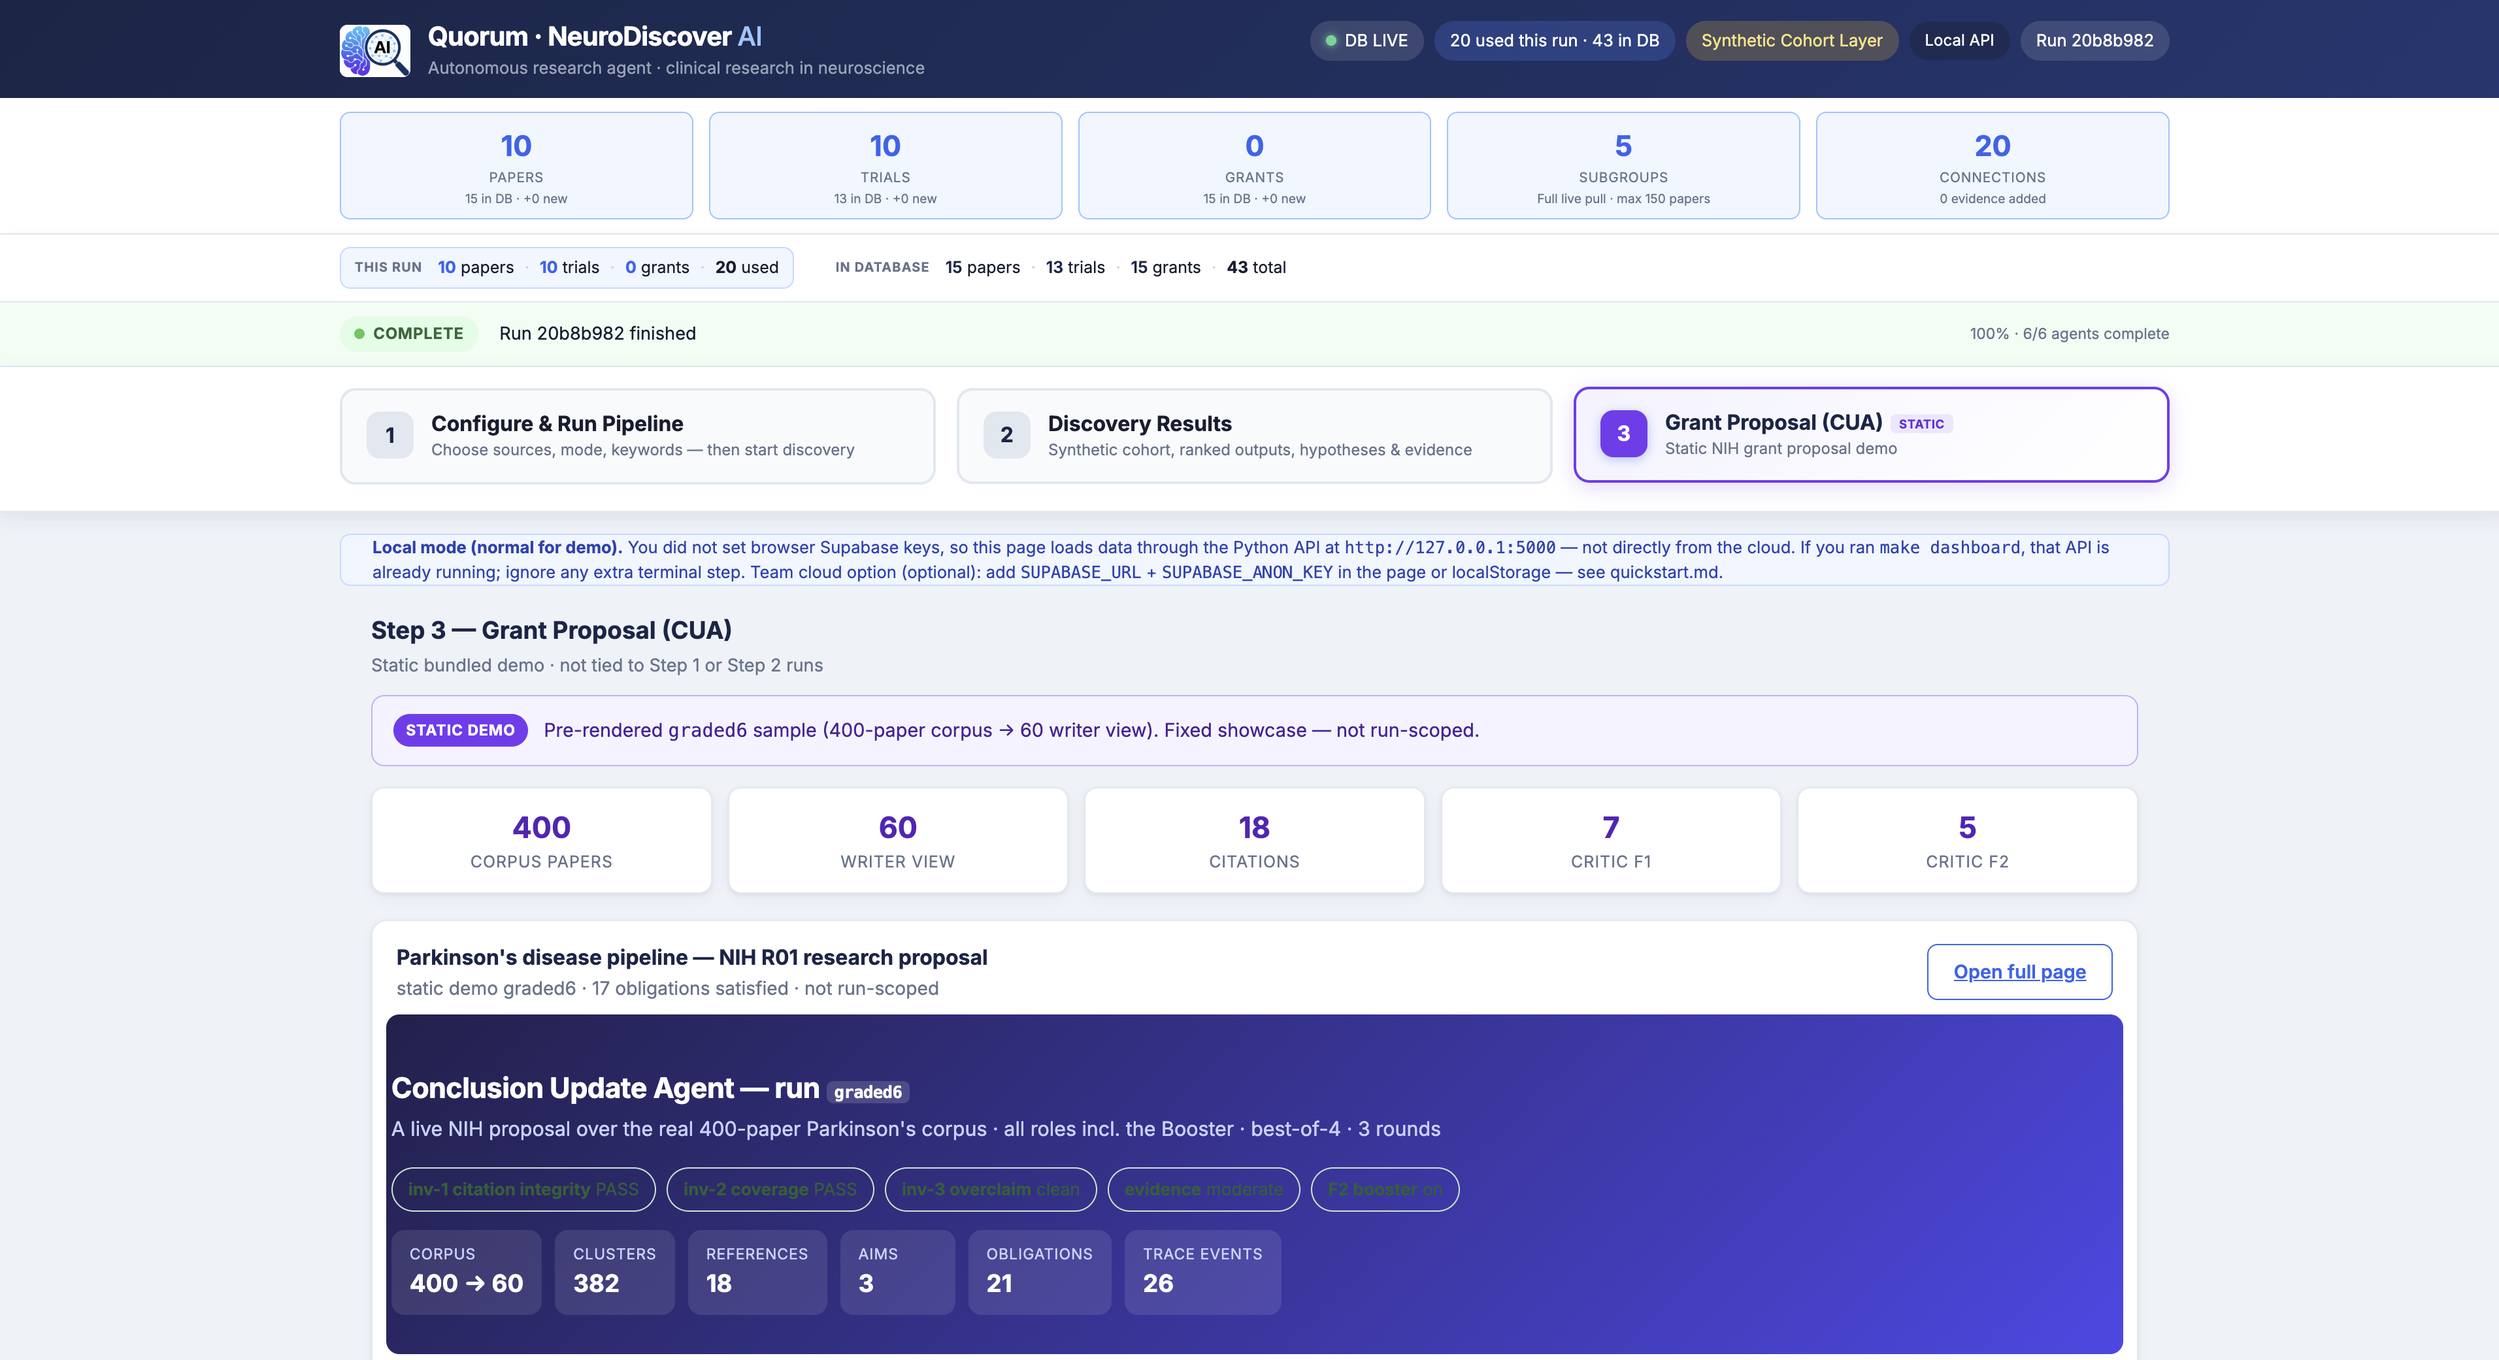
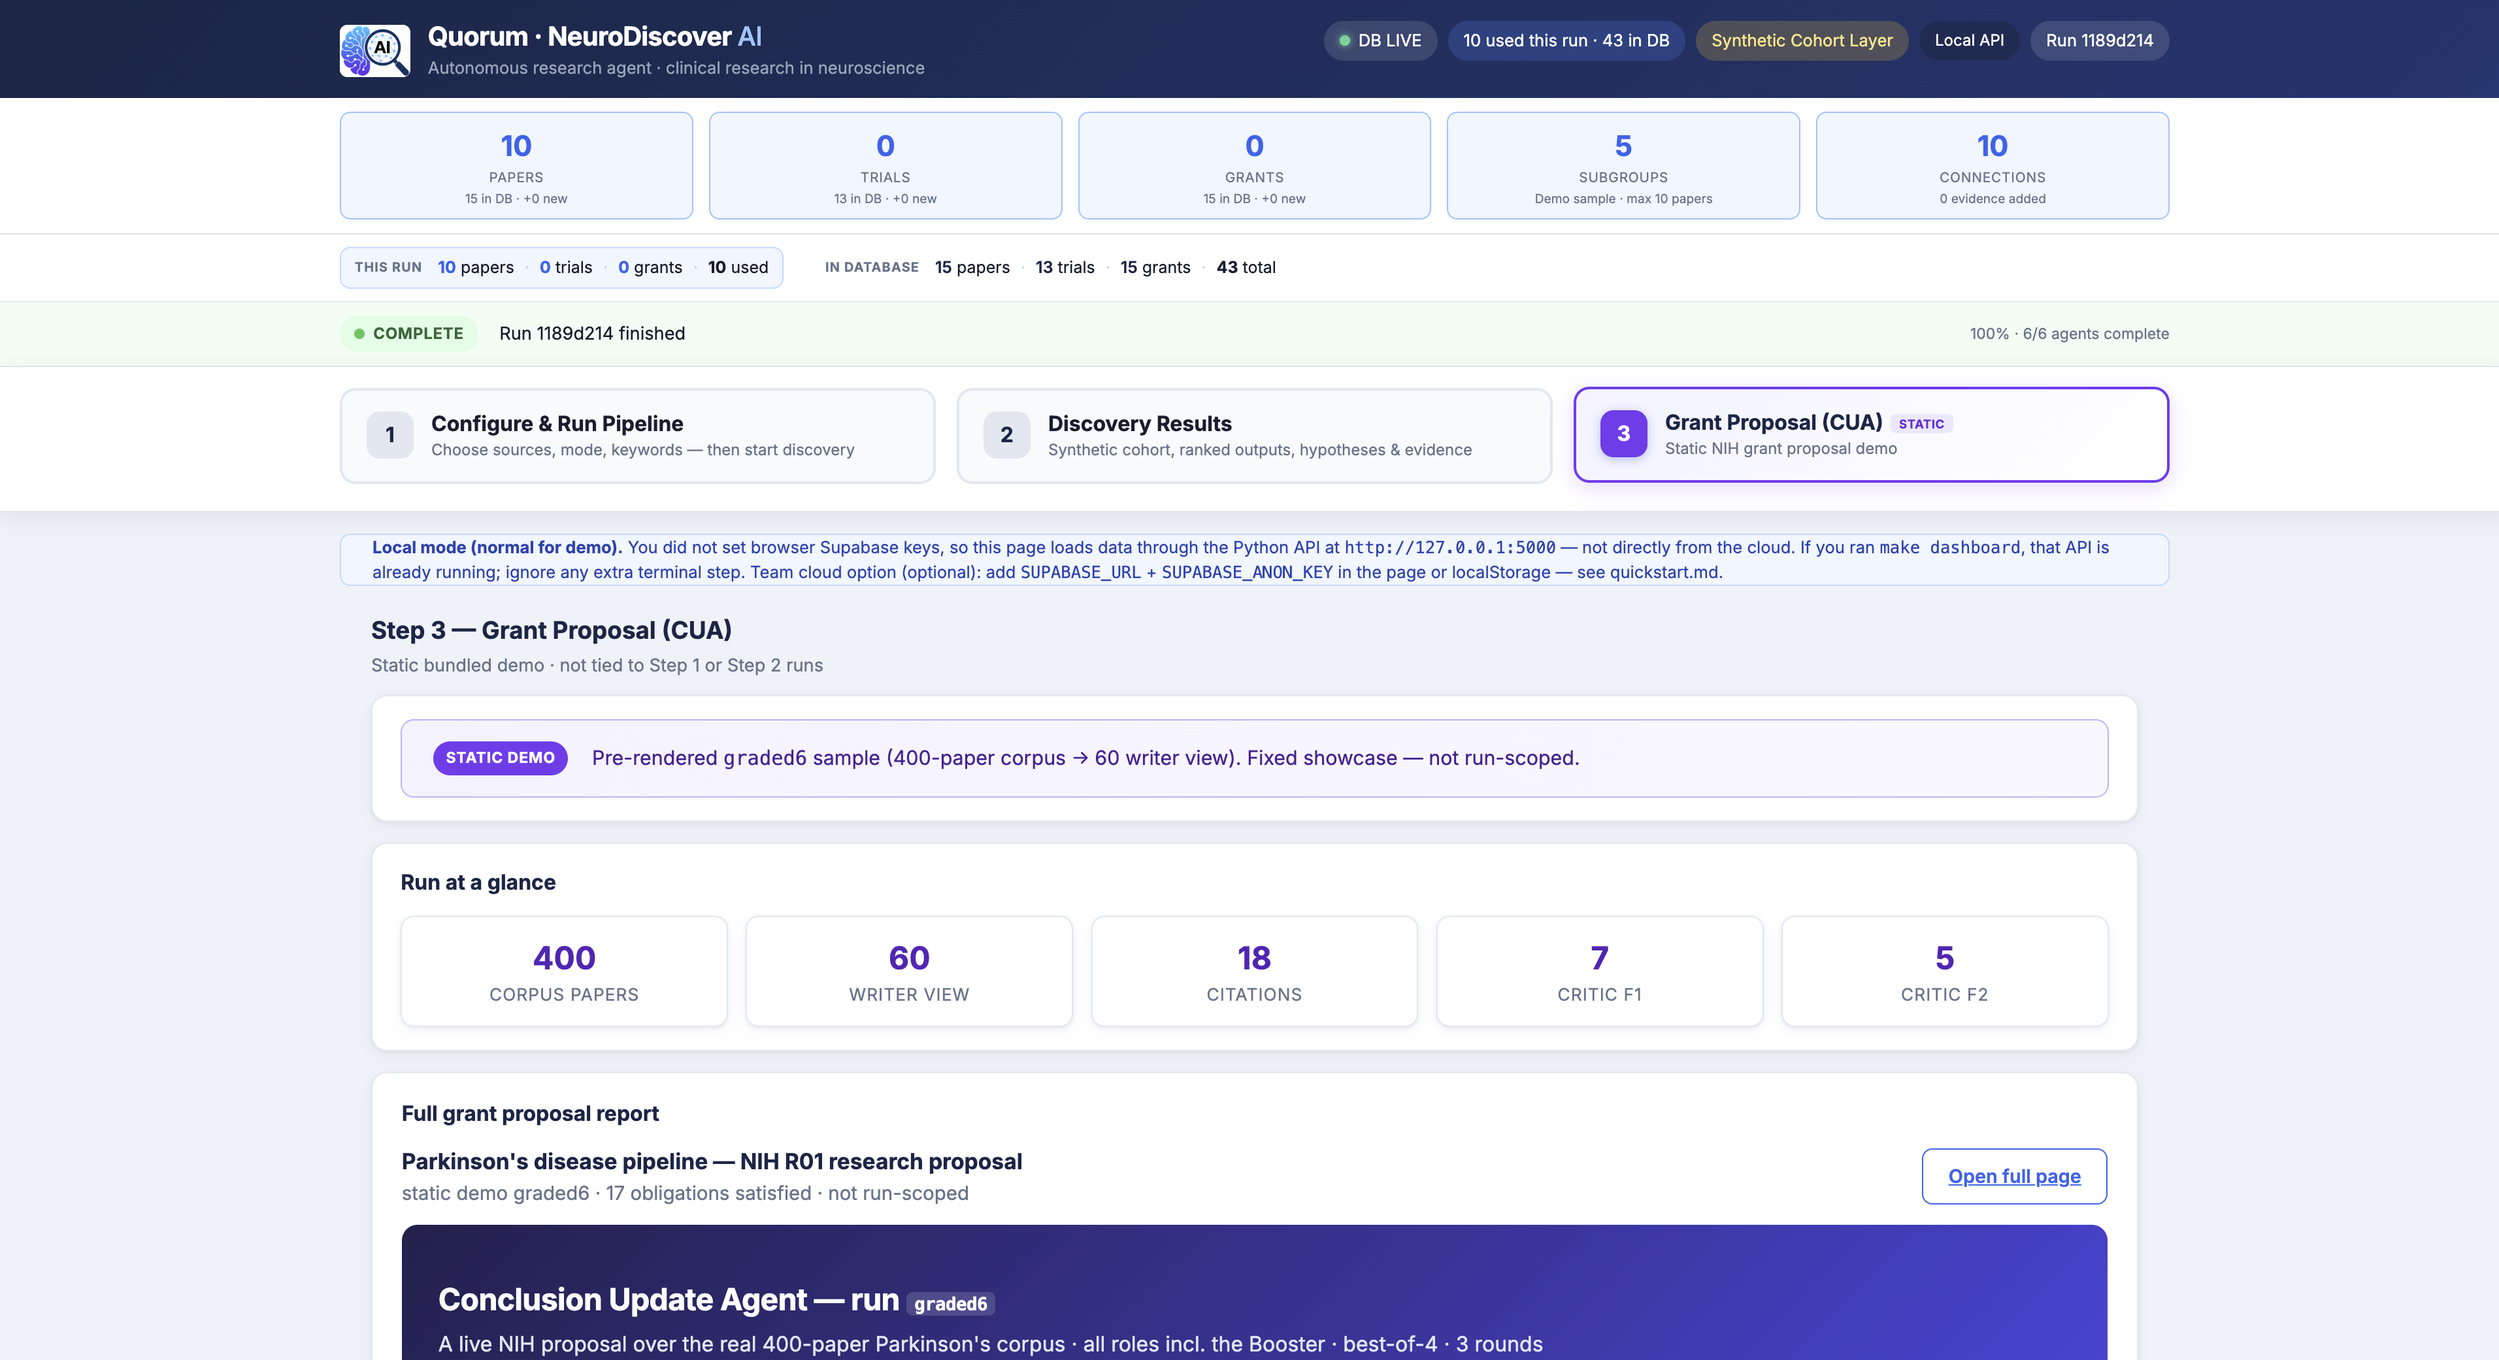
Improve Step 3 CUA readability with contrast, padding, and section cards.

diff --git a/neurodiscover/frontend/index.html b/neurodiscover/frontend/index.html
@@ -286,6 +286,20 @@
     .tab-btn-cua.active { border-color: #7c3aed; background: linear-gradient(135deg, #f5f3ff 0%, #fff 100%); box-shadow: 0 4px 16px rgba(124, 58, 237, 0.18); }
     .tab-btn-cua.active .tab-step { background: #7c3aed; color: #fff; }
     .cua-wide { max-width: 1400px; margin: 0 auto; padding: 0.75rem 1.5rem 2rem; }
+    .cua-shell-card {
+      background: var(--card);
+      border: 1px solid var(--border);
+      border-radius: 12px;
+      box-shadow: var(--shadow);
+      padding: 1.1rem 1.35rem;
+      margin-bottom: 1rem;
+    }
+    .cua-shell-card h2 {
+      margin: 0 0 0.85rem;
+      font-size: 1rem;
+      font-weight: 700;
+      color: var(--navy);
+    }
     .cua-banner {
       border-left: 4px solid #7c3aed;
       background: linear-gradient(90deg, #f5f3ff 0%, #fff 14%);
@@ -294,8 +308,8 @@
     .cua-kpi-row {
       display: grid;
       grid-template-columns: repeat(5, minmax(0, 1fr));
-      gap: 0.75rem;
-      margin-bottom: 1.25rem;
+      gap: 0.85rem;
+      margin-bottom: 0;
     }
     @media (max-width: 900px) { .cua-kpi-row { grid-template-columns: repeat(2, 1fr); } }
     .cua-kpi {
@@ -306,8 +320,8 @@
       border: 1px solid var(--border);
       box-shadow: var(--shadow);
     }
-    .cua-kpi .val { font-size: 1.4rem; font-weight: 700; color: #5b21b6; }
-    .cua-kpi .lbl { font-size: 0.78rem; text-transform: uppercase; letter-spacing: 0.04em; color: var(--muted); }
+    .cua-kpi .val { font-size: 1.5rem; font-weight: 700; color: #5b21b6; }
+    .cua-kpi .lbl { font-size: 0.82rem; text-transform: uppercase; letter-spacing: 0.04em; color: var(--muted); }
     .cua-report-toolbar {
       display: flex;
       align-items: center;
@@ -324,7 +338,7 @@
       border: 1px solid var(--border);
       border-radius: 12px;
       box-shadow: var(--shadow);
-      padding: 1rem 1.15rem 1.25rem;
+      padding: 1.2rem 1.4rem 1.5rem;
       overflow: visible;
     }
     .cua-report-inline {
@@ -366,17 +380,18 @@
     .cua-static-bar {
       display: flex;
       align-items: center;
-      gap: 0.75rem;
+      gap: 1rem;
       flex-wrap: wrap;
-      padding: 0.85rem 1rem;
-      margin-bottom: 1rem;
+      padding: 1rem 1.35rem 1rem 1.5rem;
+      margin-bottom: 0;
       border-radius: 10px;
       border: 1px solid #c4b5fd;
-      background: #f5f3ff;
-      font-size: 0.9rem;
-      line-height: 1.5;
+      background: linear-gradient(90deg, #f5f3ff 0%, #faf8ff 100%);
+      font-size: 0.95rem;
+      line-height: 1.55;
       color: #4c1d95;
     }
+    .cua-static-text { flex: 1; min-width: 12rem; padding-left: 0.15rem; }
     .cua-static-badge {
       flex-shrink: 0;
       display: inline-flex;
@@ -1387,24 +1402,30 @@
   <div id="viewCua" class="hidden">
     <p class="view-page-title">Step 3 — Grant Proposal (CUA) <span id="cuaSubtitle">Static bundled demo · not tied to Step 1 or Step 2 runs</span></p>
     <div class="cua-wide">
-      <div class="cua-static-bar" role="note">
-        <span class="cua-static-badge">Static demo</span>
-        <span>Pre-rendered <code>graded6</code> sample (400-paper corpus → 60 writer view). Fixed showcase — not run-scoped.</span>
+      <div class="cua-shell-card">
+        <div class="cua-static-bar" role="note">
+          <span class="cua-static-badge">Static demo</span>
+          <span class="cua-static-text">Pre-rendered <code>graded6</code> sample (400-paper corpus → 60 writer view). Fixed showcase — not run-scoped.</span>
+        </div>
       </div>
-      <div class="cua-kpi-row" id="cuaKpis">
-        <div class="cua-kpi"><div class="val" id="cuaKpiCorpus">—</div><div class="lbl">Corpus papers</div></div>
-        <div class="cua-kpi"><div class="val" id="cuaKpiView">—</div><div class="lbl">Writer view</div></div>
-        <div class="cua-kpi"><div class="val" id="cuaKpiCites">—</div><div class="lbl">Citations</div></div>
-        <div class="cua-kpi"><div class="val" id="cuaKpiF1">—</div><div class="lbl">Critic F1</div></div>
-        <div class="cua-kpi"><div class="val" id="cuaKpiF2">—</div><div class="lbl">Critic F2</div></div>
+      <div class="cua-shell-card" id="cuaKpis">
+        <h2>Run at a glance</h2>
+        <div class="cua-kpi-row">
+          <div class="cua-kpi"><div class="val" id="cuaKpiCorpus">—</div><div class="lbl">Corpus papers</div></div>
+          <div class="cua-kpi"><div class="val" id="cuaKpiView">—</div><div class="lbl">Writer view</div></div>
+          <div class="cua-kpi"><div class="val" id="cuaKpiCites">—</div><div class="lbl">Citations</div></div>
+          <div class="cua-kpi"><div class="val" id="cuaKpiF1">—</div><div class="lbl">Critic F1</div></div>
+          <div class="cua-kpi"><div class="val" id="cuaKpiF2">—</div><div class="lbl">Critic F2</div></div>
+        </div>
       </div>
       <div id="cuaUnavailable" class="cua-unavail hidden">
         CUA demo artifacts not found. Ensure <code>cua/outputs/graded6.*</code> exists in the repo.
       </div>
       <div id="cuaMain">
         <div class="cua-report-card">
+          <h2 style="margin:0 0 0.75rem;font-size:1rem;color:var(--navy);">Full grant proposal report</h2>
           <div class="cua-report-toolbar">
-            <span><strong id="cuaReportTitle">Grant proposal report</strong><br><span id="cuaReportMeta" style="font-size:0.88rem;color:var(--muted);font-weight:400;">graded6 static demo</span></span>
+            <span><strong id="cuaReportTitle" style="font-size:1.05rem;">Grant proposal report</strong><br><span id="cuaReportMeta" style="font-size:0.92rem;color:var(--muted);font-weight:400;">graded6 static demo</span></span>
             <a class="btn btn-secondary" id="cuaReportOpen" href="#" target="_blank" rel="noopener">Open full page</a>
           </div>
           <div id="cuaReportHost" class="cua-report-inline" aria-live="polite">Loading grant proposal…</div>
@@ -3406,34 +3427,71 @@ python -m cua.nih.run_db \
 
     const CUA_INLINE_OVERRIDES = `
       :host { display: block; width: 100%; color: #1a1f2e; }
-      header { margin: -0.25rem -0.5rem 1.25rem; border-radius: 10px; overflow: hidden; }
-      .wrap { max-width: none; padding: 0 0.25rem 2rem; }
-      body { font-size: 16px; line-height: 1.6; }
-      h1 { font-size: 1.35rem !important; }
-      .sub { font-size: 0.95rem !important; line-height: 1.5 !important; }
-      .badge { font-size: 0.82rem !important; padding: 6px 12px !important; }
-      .chip { min-width: 5.5rem; padding: 10px 14px !important; }
-      .chip .k { font-size: 0.72rem !important; }
-      .chip .v { font-size: 1.15rem !important; }
-      h2 { font-size: 1.15rem; }
-      .lead { font-size: 0.95rem !important; line-height: 1.55; }
-      .dim { font-size: 0.82rem !important; }
-      .d-panel { overflow: visible !important; height: auto !important; min-height: 4.5rem; padding: 8px 12px !important; }
-      .dp-h { font-size: 0.72rem !important; }
-      .dp-c { font-size: 0.86rem !important; line-height: 1.5 !important; }
-      .dm { font-size: 0.78rem !important; }
-      .dnl b { font-size: 0.9rem !important; }
-      .obl li { font-size: 0.88rem !important; line-height: 1.5 !important; }
-      .ev-role { font-size: 0.88rem !important; }
-      .ev-dec { font-size: 0.8rem !important; }
-      .pmore { font-size: 0.78rem !important; }
-      code { font-size: 0.8rem !important; }
-      table { font-size: 0.88rem !important; }
-      th { font-size: 0.8rem !important; }
+      header { margin: 0 0 1.5rem; border-radius: 12px; overflow: hidden; }
+      header .wrap { padding: 0 1.75rem 0 !important; max-width: none !important; }
+      .wrap { max-width: none; padding: 0 1.25rem 2.5rem !important; }
+      body { font-size: 17px; line-height: 1.65; font-weight: 400; }
+      h1 { font-size: 1.45rem !important; font-weight: 700 !important; }
+      .sub { font-size: 1rem !important; line-height: 1.55 !important; color: #e0e7ff !important; padding-right: 0.5rem; }
+      header .badges { padding-left: 0.15rem; gap: 10px !important; }
+      .badge { font-size: 0.88rem !important; padding: 7px 14px !important; font-weight: 600 !important; }
+      header .badge.ok {
+        background: #10b981 !important;
+        color: #ffffff !important;
+        border-color: #059669 !important;
+        box-shadow: 0 1px 3px rgba(0,0,0,0.15);
+      }
+      header .badge.warn {
+        background: #fbbf24 !important;
+        color: #78350f !important;
+        border-color: #f59e0b !important;
+      }
+      header .badge:not(.ok):not(.warn) {
+        background: rgba(255,255,255,0.2) !important;
+        color: #fff !important;
+        border-color: rgba(255,255,255,0.35) !important;
+      }
+      .chips { padding-left: 0.15rem; gap: 12px !important; }
+      .chip { min-width: 6.5rem; padding: 12px 16px !important; background: rgba(255,255,255,0.14) !important; }
+      .chip .k { font-size: 0.78rem !important; color: #e0e7ff !important; }
+      .chip .v { font-size: 1.25rem !important; }
+      h2 { font-size: 1.2rem !important; font-weight: 700; margin-bottom: 0.5rem !important; }
+      .lead { font-size: 1rem !important; line-height: 1.6 !important; font-weight: 400 !important; }
+      .dim { font-size: 0.88rem !important; }
+      .card {
+        padding: 1.15rem 1.25rem !important;
+        margin-bottom: 1rem !important;
+        border-radius: 12px !important;
+      }
+      .card p { font-size: 0.98rem !important; line-height: 1.65 !important; font-weight: 400 !important; }
+      .card-h { font-size: 1rem !important; margin-bottom: 0.65rem !important; }
+      .d-panel { overflow: visible !important; height: auto !important; min-height: 5rem; padding: 10px 14px !important; }
+      .dp-h { font-size: 0.78rem !important; }
+      .dp-c { font-size: 0.92rem !important; line-height: 1.55 !important; font-weight: 400 !important; }
+      .dm { font-size: 0.82rem !important; }
+      .dnl b { font-size: 0.95rem !important; }
+      .obl li { font-size: 0.94rem !important; line-height: 1.6 !important; font-weight: 400 !important; }
+      .ev-role { font-size: 0.92rem !important; }
+      .ev-dec { font-size: 0.86rem !important; }
+      .ev-dec.ok { color: #047857 !important; font-weight: 600 !important; }
+      .pmore { font-size: 0.84rem !important; }
+      code { font-size: 0.86rem !important; }
+      table { font-size: 0.94rem !important; }
+      th { font-size: 0.86rem !important; }
+      td { font-size: 0.94rem !important; }
       .diagram { max-width: 100%; margin: 0 auto; overflow-x: auto; overflow-y: visible; }
-      section { margin: 1.75rem 0; }
-      .card { padding: 1rem 1.1rem; }
-      footer { font-size: 0.85rem; }
+      section {
+        margin: 2rem 0 !important;
+        padding: 1.1rem 1.15rem !important;
+        background: #fafbff !important;
+        border: 1px solid #e4e7ee !important;
+        border-radius: 12px !important;
+      }
+      section > h2:first-child { margin-top: 0 !important; }
+      .grid2 { gap: 1rem !important; }
+      .cand p { font-size: 0.94rem !important; line-height: 1.6 !important; }
+      .callout { font-size: 0.96rem !important; line-height: 1.6 !important; padding: 1rem 1.15rem !important; }
+      footer { font-size: 0.9rem; padding-top: 1.25rem; }
     `;
 
     function fixCuaHtmlEntities(root) {

diff --git a/cua/outputs/graded6.html b/cua/outputs/graded6.html
@@ -5,20 +5,20 @@
 :root{--bg:#f6f7fb;--ink:#1a1f2e;--mut:#667085;--line:#e4e7ee;--card:#fff;--ind:#4f46e5;
 --ok:#0f9d58;--okbg:#e7f5ee;--warn:#b7791f;--warnbg:#fdf4e3;--code:#5b21b6;--sky:#0284c7;--skybg:#e0f2fe;}
 *{box-sizing:border-box}body{margin:0;background:var(--bg);color:var(--ink);
-font:15px/1.55 -apple-system,BlinkMacSystemFont,"Segoe UI",Roboto,Helvetica,Arial,sans-serif}
+font:16px/1.6 -apple-system,BlinkMacSystemFont,"Segoe UI",Roboto,Helvetica,Arial,sans-serif}
 .wrap{max-width:1280px;margin:0 auto;padding:0 24px 64px}
-header{background:linear-gradient(135deg,#1e1b4b,#4f46e5);color:#fff;padding:40px 0 30px;margin-bottom:28px}
-header .wrap{padding-bottom:0}h1{margin:0 0 4px;font-size:26px;letter-spacing:-.3px}
+header{background:linear-gradient(135deg,#1e1b4b,#4f46e5);color:#fff;padding:40px 0 34px;margin-bottom:28px}
+header .wrap{padding:0 28px 0;max-width:1280px}h1{margin:0 0 4px;font-size:26px;letter-spacing:-.3px}
 .sub{color:#c7d2fe;margin:0 0 18px}
 .badges{display:flex;gap:8px;flex-wrap:wrap;margin-bottom:14px}
 .badge{background:rgba(255,255,255,.14);border:1px solid rgba(255,255,255,.22);border-radius:999px;
-padding:5px 12px;font-size:13px}.badge.ok{background:var(--okbg);color:#075e35;border-color:#bfe6d0}
-.badge.warn{background:var(--warnbg);color:#7a5410;border-color:#f0dcae}.badge b{font-weight:700}
+padding:5px 12px;font-size:13px}.badge.ok{background:#10b981;color:#fff;border-color:#059669;font-weight:600}
+.badge.warn{background:#fbbf24;color:#78350f;border-color:#f59e0b;font-weight:600}.badge b{font-weight:700}
 .chips{display:flex;gap:10px;flex-wrap:wrap}.chip{background:rgba(255,255,255,.1);border-radius:10px;
 padding:8px 14px;min-width:84px}.chip .k{font-size:11px;color:#c7d2fe;text-transform:uppercase;letter-spacing:.04em}
 .chip .v{font-size:18px;font-weight:700}
-section{margin:34px 0}h2{font-size:18px;margin:0 0 4px;letter-spacing:-.2px}
-.lead{color:var(--mut);margin:0 0 16px;font-size:15px}
+section{margin:34px 0;padding:18px 20px;background:#fafbff;border:1px solid var(--line);border-radius:12px}h2{font-size:18px;margin:0 0 4px;letter-spacing:-.2px}
+.lead{color:var(--mut);margin:0 0 16px;font-size:16px}
 .card{background:var(--card);border:1px solid var(--line);border-radius:12px;padding:18px 20px;margin-bottom:14px;
 box-shadow:0 1px 2px rgba(16,24,40,.04)}.card-h{font-weight:700;margin-bottom:8px}
 .card p{margin:6px 0;color:#2b3245}.dim{font-weight:500;color:var(--mut);font-size:13px;margin-left:6px}
